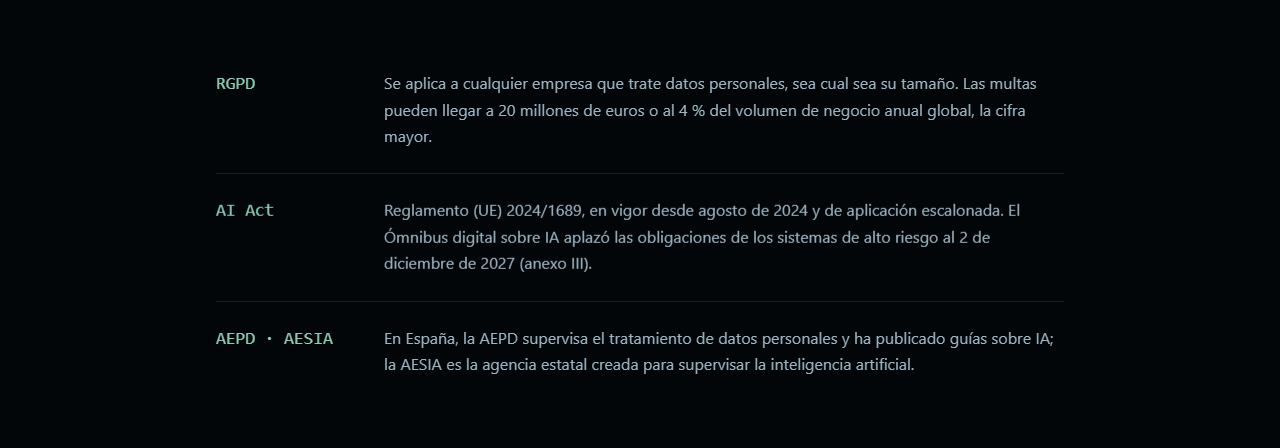
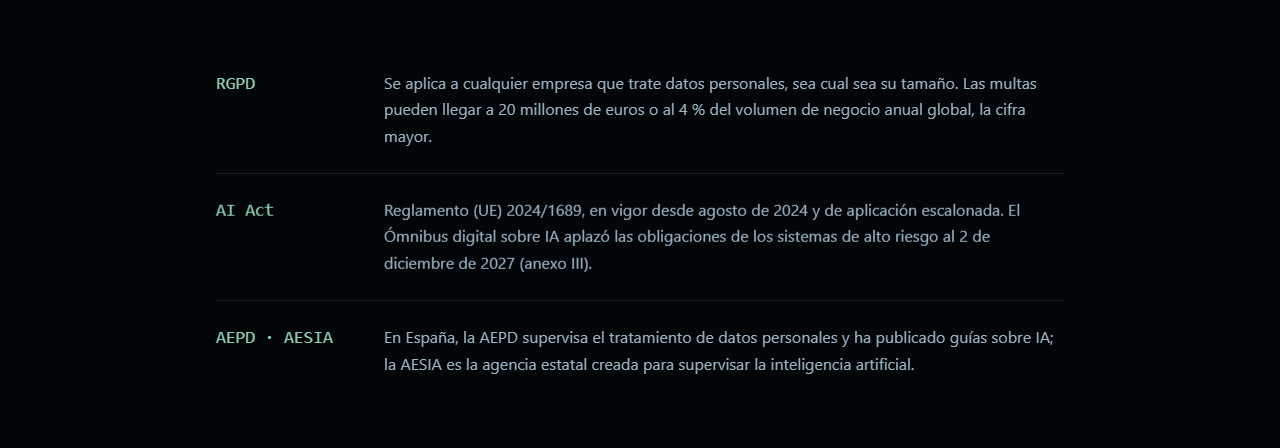
feat(sau/motion): cifras en el kit, en prueba (GAL-1904)
Figures + Figure y :::cifras (lista -> dl, valor por máscara). Cifras del muestrario y del
fixture sacadas de /ia-onpremise de galileo-studio-web, con la fuente anotada.

diff --git a/plugins/sau/skills/motion-director/kit/styles/motion.css b/plugins/sau/skills/motion-director/kit/styles/motion.css
@@ -370,6 +370,81 @@
     }
   }
 
+  /* cifras */
+  .motion-figures > dl {
+    display: grid;
+    grid-template-columns: minmax(0, 1fr);
+    gap: 2.5rem 2rem;
+    margin: 0;
+  }
+
+  .motion-figures > dl > div {
+    --motion-col: 0;
+    display: flex;
+    flex-direction: column;
+    gap: 0.75rem;
+    padding-top: 1.5rem;
+    border-top: 1px solid var(--motion-hairline);
+  }
+
+  .motion-figures dt {
+    color: var(--motion-muted);
+    line-height: 1.6;
+  }
+
+  .motion-figures dd {
+    margin: 0;
+  }
+
+  /* El número va arriba a la vista, pero después de su explicación en el DOM. */
+  .motion-figure-value {
+    order: -1;
+    font-family: var(--font-mono, ui-monospace, SFMono-Regular, Menlo, monospace);
+    font-size: clamp(2.5rem, 2rem + 2vw, 3.5rem);
+    font-weight: 500;
+    line-height: 1.05;
+    letter-spacing: -0.04em;
+    font-variant-numeric: tabular-nums;
+    color: var(--foreground);
+  }
+
+  .motion-figure-value > .motion-mask-inner {
+    display: inline-block;
+  }
+
+  .motion-figure-note {
+    font-size: 0.75rem;
+    line-height: 1.5;
+    color: color-mix(in srgb, var(--motion-muted) 75%, transparent);
+  }
+
+  @media (min-width: 40rem) {
+    .motion-figures > dl {
+      grid-template-columns: repeat(2, minmax(0, 1fr));
+    }
+
+    .motion-figures > dl > div:nth-child(2n) {
+      --motion-col: 1;
+    }
+  }
+
+  /* Desde 64rem, tantas columnas como cifras (máximo 4). */
+  @media (min-width: 64rem) {
+    .motion-figures > dl {
+      grid-template-columns: none;
+      grid-auto-flow: column;
+      grid-auto-columns: minmax(0, 1fr);
+    }
+
+    .motion-figures > dl > div:nth-child(3) {
+      --motion-col: 2;
+    }
+
+    .motion-figures > dl > div:nth-child(4) {
+      --motion-col: 3;
+    }
+  }
+
   /* filas */
   .motion-rows > dl {
     margin: 0;
@@ -526,6 +601,35 @@
       animation-timeline: view();
       animation-range: entry calc(5% + var(--motion-col) * var(--motion-stagger-step))
         entry calc(60% + var(--motion-col) * var(--motion-stagger-step));
+    }
+
+    /* ---- cifras: cada cifra tiene su línea de tiempo (el valor solo mide ~60 px, regla 2.9);
+       el valor sube por máscara y la explicación detrás, escalonado por columna ---- */
+    .motion-figures > dl > div {
+      view-timeline: --motion-figure block;
+    }
+
+    .motion-figure-value {
+      overflow: clip;
+      overflow-clip-margin: 0.1em;
+    }
+
+    .motion-figure-value > .motion-mask-inner {
+      animation: motion-mask-up linear both;
+      animation-timing-function: var(--motion-ease-brand);
+      animation-timeline: --motion-figure;
+      animation-range: entry calc(10% + var(--motion-col) * var(--motion-stagger-step))
+        entry calc(70% + var(--motion-col) * var(--motion-stagger-step));
+    }
+
+    .motion-figures dt,
+    .motion-figure-note {
+      --motion-rise: 12px;
+      animation: motion-rise linear both;
+      animation-timing-function: var(--motion-ease-brand);
+      animation-timeline: --motion-figure;
+      animation-range: entry calc(20% + var(--motion-col) * var(--motion-stagger-step))
+        entry calc(80% + var(--motion-col) * var(--motion-stagger-step));
     }
 
     /* ---- filas: cada fila sube con su propia view() (mide más de 40 px); el separador

diff --git a/evals/sau/motion/banco-web/src/app/page.tsx b/evals/sau/motion/banco-web/src/app/page.tsx
@@ -1,7 +1,7 @@
 // Muestrario del banco de motion. Cada pieza del catálogo aparece aquí en una
 // <section data-pieza="<id>"> con el mismo id que su entrada en ../../../piezas.json.
 // Ver LEEME.md: «Registrar una pieza nueva».
-import { Reveal, Steps, Comparison, ComparisonColumn, PullQuote, SectionHeading, Rows, Row, Bento, BentoItem } from "@/components/motion";
+import { Reveal, Steps, Comparison, ComparisonColumn, PullQuote, SectionHeading, Rows, Row, Bento, BentoItem, Figures, Figure } from "@/components/motion";
 
 // Piezas en prueba (2026-11): textos tomados de /ia-onpremise de galileo-studio-web
 // (messages/es.json, clave iaOnpremise.*), para ver las piezas con contenido real de Galileo.
@@ -145,6 +145,30 @@ export default function Muestrario() {
             <li><strong>Coste previsible.</strong> Sin pago por uso.</li>
           </ul>
         </Bento>
+      </section>
+      <Espacio />
+
+      {/* Cifras publicadas en /ia-onpremise (galileo-studio-web, messages/es.json); ver fixtures/markdown/cifras.md. */}
+      <section data-pieza="cifras">
+        <Figures>
+          <dl>
+            <Figure
+              value="4"
+              label="capas, todas dentro de tu infraestructura."
+              note="Fuente: guía IA on-premise, «Cómo se integra con tus sistemas»."
+            />
+            <Figure
+              value="16–24 GB"
+              label="de memoria de GPU suelen bastar para un primer caso de uso con un equipo pequeño."
+              note="Fuente: guía IA on-premise, requisitos y preguntas frecuentes."
+            />
+            <Figure
+              value="4 %"
+              label="del volumen de negocio anual global (o 20 millones de euros, si es mayor): multa máxima del RGPD."
+              note="Fuente: guía IA on-premise, «Normativa, al día de octubre de 2026»."
+            />
+          </dl>
+        </Figures>
       </section>
       <Espacio />
 

diff --git a/plugins/sau/skills/motion-director/kit/components/figures.tsx b/plugins/sau/skills/motion-director/kit/components/figures.tsx
@@ -1,0 +1,44 @@
+// ARCHIVO GENERADO por install_kit.py del kit de motion-director (plugin sau).
+// No lo edites en src/: edita el kit del plugin y vuelve a instalar.
+import type { ReactNode } from "react";
+import { cn } from "@/lib/utils";
+
+type FiguresProps = {
+  /** Un `<dl>` con `<Figure>` (TSX) o el `<dl>` que genera `:::cifras` en el Markdown. */
+  children: ReactNode;
+  className?: string;
+};
+
+/**
+ * Pieza `cifras` del catálogo SAU (en prueba; de bloque, una por página): de 2 a 4 cifras
+ * clave. El número sube por máscara y su explicación detrás. Sin contador: el número final
+ * está siempre en el HTML. Nunca una cifra sin fuente.
+ */
+export function Figures({ children, className }: FiguresProps) {
+  return (
+    <div className={cn("motion-figures", className)} data-motion="cifras">
+      {children}
+    </div>
+  );
+}
+
+type FigureProps = {
+  /** Texto final de la cifra, corto (hasta 8 caracteres): "0 €", "100 %", "24/7". */
+  value: string;
+  /** Explicación, una frase. En el DOM va antes que el número: se lee «explicación: cifra». */
+  label: ReactNode;
+  /** Fuente o matiz, pequeño. */
+  note?: ReactNode;
+};
+
+export function Figure({ value, label, note }: FigureProps) {
+  return (
+    <div>
+      <dt>{label}</dt>
+      <dd className="motion-figure-value">
+        <span className="motion-mask-inner">{value}</span>
+      </dd>
+      {note ? <dd className="motion-figure-note">{note}</dd> : null}
+    </div>
+  );
+}

diff --git a/plugins/sau/skills/motion-director/kit/lib/remark-motion.ts b/plugins/sau/skills/motion-director/kit/lib/remark-motion.ts
@@ -11,7 +11,7 @@ import type {} from "mdast-util-to-hast";
  * Bloques de movimiento admitidos en el Markdown del blog (catálogo SAU).
  * Mantener alineado con motion-catalog.md de la skill motion-director.
  */
-export const MOTION_CONTAINERS = ["pasos", "comparativa", "columna", "cita-destacada", "filas", "bento"] as const;
+export const MOTION_CONTAINERS = ["pasos", "comparativa", "columna", "cita-destacada", "filas", "bento", "cifras"] as const;
 export type MotionContainer = (typeof MOTION_CONTAINERS)[number];
 
 type DirectiveNode = ContainerDirective | LeafDirective | TextDirective;

diff --git a/evals/sau/motion/fixtures/markdown/cifras.expected.html b/evals/sau/motion/fixtures/markdown/cifras.expected.html
@@ -1,0 +1,14 @@
+<div data-motion="cifras"><dl>
+<div>
+<dt>capas, todas dentro de tu infraestructura.</dt>
+<dd class="motion-figure-value"><span class="motion-mask-inner">4</span></dd>
+</div>
+<div>
+<dt>de memoria de GPU suelen bastar para un primer caso de uso.</dt>
+<dd class="motion-figure-value"><span class="motion-mask-inner">16–24 GB</span></dd>
+</div>
+<div>
+<dt>del volumen de negocio anual global (o 20 millones de euros, si es mayor): multa máxima del RGPD.</dt>
+<dd class="motion-figure-value"><span class="motion-mask-inner">4 %</span></dd>
+</div>
+</dl></div>

diff --git a/evals/sau/motion/fixtures/markdown/cifras-casos.expected.html b/evals/sau/motion/fixtures/markdown/cifras-casos.expected.html
@@ -1,0 +1,9 @@
+<div data-motion="cifras"><dl>
+<div>
+<dt>capas, todas dentro de tu infraestructura.</dt>
+<dd class="motion-figure-value"><span class="motion-mask-inner">4</span></dd>
+</div>
+<div>
+<dt>Elemento sin negrita: se queda como texto, sin máscara.</dt>
+</div>
+</dl></div>

diff --git a/plugins/sau/skills/motion-director/kit/components/index.ts b/plugins/sau/skills/motion-director/kit/components/index.ts
@@ -7,3 +7,4 @@ export { PullQuote } from "./pull-quote";
 export { SectionHeading, SectionKicker } from "./section-heading";
 export { Rows, Row } from "./rows";
 export { Bento, BentoItem } from "./bento";
+export { Figures, Figure } from "./figures";

diff --git a/evals/sau/motion/autoprueba.py b/evals/sau/motion/autoprueba.py
@@ -122,6 +122,10 @@ CASOS = [
      reemplazar("kit/styles/motion.css", "    overflow: clip;\n    border: 1px solid var(--motion-hairline);",
                 "    overflow: hidden;\n    border: 1px solid var(--motion-hairline);"),
      "ninguna pieza usa overflow hidden"),
+    ("cifras: el valor recorta también sin movimiento",
+     reemplazar("kit/styles/motion.css", "  .motion-figure-value > .motion-mask-inner {\n    display: inline-block;\n  }",
+                "  .motion-figure-value > .motion-mask-inner {\n    display: inline-block;\n  }\n\n  .motion-figure-value {\n    overflow: clip;\n  }"),
+     "solo recorta (overflow: clip) dentro de @supports"),
     ("SKILL.md sin la regla de «En prueba»",
      reemplazar("SKILL.md", "Las de «En prueba»", "Las de la otra tabla"),
      "SKILL.md de motion-director dice que no asigna"),

diff --git a/plugins/sau/skills/motion-director/kit/install_kit.py b/plugins/sau/skills/motion-director/kit/install_kit.py
@@ -45,6 +45,7 @@ FILES = {
     KIT / "components" / "section-heading.tsx": "src/components/motion/section-heading.tsx",
     KIT / "components" / "rows.tsx": "src/components/motion/rows.tsx",
     KIT / "components" / "bento.tsx": "src/components/motion/bento.tsx",
+    KIT / "components" / "figures.tsx": "src/components/motion/figures.tsx",
     KIT / "components" / "index.ts": "src/components/motion/index.ts",
     KIT / "lib" / "motion.ts": "src/lib/motion.ts",
     KIT / "lib" / "remark-motion.ts": "src/lib/remark-motion.ts",

diff --git a/plugins/sau/skills/motion-director/motion-catalog.md b/plugins/sau/skills/motion-director/motion-catalog.md
@@ -25,6 +25,7 @@ Sus fichas están al final de este catálogo («Fichas en prueba»). Tipo «de b
 |---|---|---|---|---|
 | `encabezado-seccion` | Automática | Cada sección numerada de una página de servicio. | `SectionHeading` + `SectionKicker` | Solo TSX |
 | `bento` | De bloque | 2–8 elementos paralelos con título y frase. | `Bento` + `BentoItem` | `:::bento{columnas=3}` + lista |
+| `cifras` | De bloque | 2–4 datos clave con fuente. Máximo una. | `Figures` + `Figure` | `:::cifras` + lista |
 | `filas` | De bloque | 2–6 pares etiqueta + texto corto. | `Rows` + `Row` | `:::filas` + lista |
 
 ## `reveal` (automática)
@@ -150,3 +151,20 @@ Piezas de la tabla «En prueba». No se asignan hasta el OK de Pelayo.
 ```
 
 - **TSX:** `<Bento columns={4} variant="grid" numbered><ul><BentoItem title="…" icon={<ShieldCheck />}>…</BentoItem></ul></Bento>`
+
+## `cifras` (en prueba; de bloque)
+
+- **Qué hace:** de 2 a 4 cifras clave en fila. El número sube por máscara (como un H2) y su explicación sube detrás. Sin contador: el número final está siempre en el HTML.
+- **Contenido válido:** de 2 a 4 cifras que **ya están en el borrador con su fuente** (nunca se inventa una cifra; si es un claim, pasa por revisión legal). Valor corto (hasta 8 caracteres) y explicación de una frase. Como máximo **una por página**.
+- **No usar si:** las cifras no tienen fuente, hay más de 4 (usar `filas` o una tabla) o el número no es lo importante (`bento`).
+- **Markdown** (la primera negrita de cada elemento es la cifra; el resto, la explicación). Ejemplo con cifras publicadas en `/ia-onpremise` de Galileo:
+
+```markdown
+:::cifras
+- **4** capas, todas dentro de tu infraestructura.
+- **16–24 GB** de memoria de GPU suelen bastar para un primer caso de uso.
+- **4 %** del volumen de negocio anual global (o 20 millones de euros, si es mayor): multa máxima del RGPD.
+:::
+```
+
+- **TSX:** `<Figures><dl><Figure value="4" label="capas, todas dentro de tu infraestructura" note="Fuente: …" /></dl></Figures>`

diff --git a/evals/sau/motion/fixtures/markdown/cifras.md b/evals/sau/motion/fixtures/markdown/cifras.md
@@ -1,0 +1,12 @@
+<!--
+Cifras «respaldables»: todas están publicadas en /ia-onpremise de galileo-studio-web (messages/es.json):
+- «4 capas»: iaOnpremise.architecture.description («Son cuatro capas, y todas funcionan dentro de tu infraestructura.»)
+- «16–24 GB»: iaOnpremise.faq.items.3.a e iaOnpremise.requirements.tiers.small.hardware («una GPU de 16 a 24 GB de memoria»)
+- «4 %»: iaOnpremise.reasons.regulation.items.rgpd.description («Las multas pueden llegar a 20 millones de euros o al 4 % del volumen de negocio anual global, la cifra mayor.»)
+-->
+
+:::cifras
+- **4** capas, todas dentro de tu infraestructura.
+- **16–24 GB** de memoria de GPU suelen bastar para un primer caso de uso.
+- **4 %** del volumen de negocio anual global (o 20 millones de euros, si es mayor): multa máxima del RGPD.
+:::

diff --git a/evals/sau/motion/fixtures/markdown/cifras-casos.md b/evals/sau/motion/fixtures/markdown/cifras-casos.md
@@ -1,0 +1,4 @@
+:::cifras
+- **4** capas, todas dentro de tu infraestructura.
+- Elemento sin negrita: se queda como texto, sin máscara.
+:::
